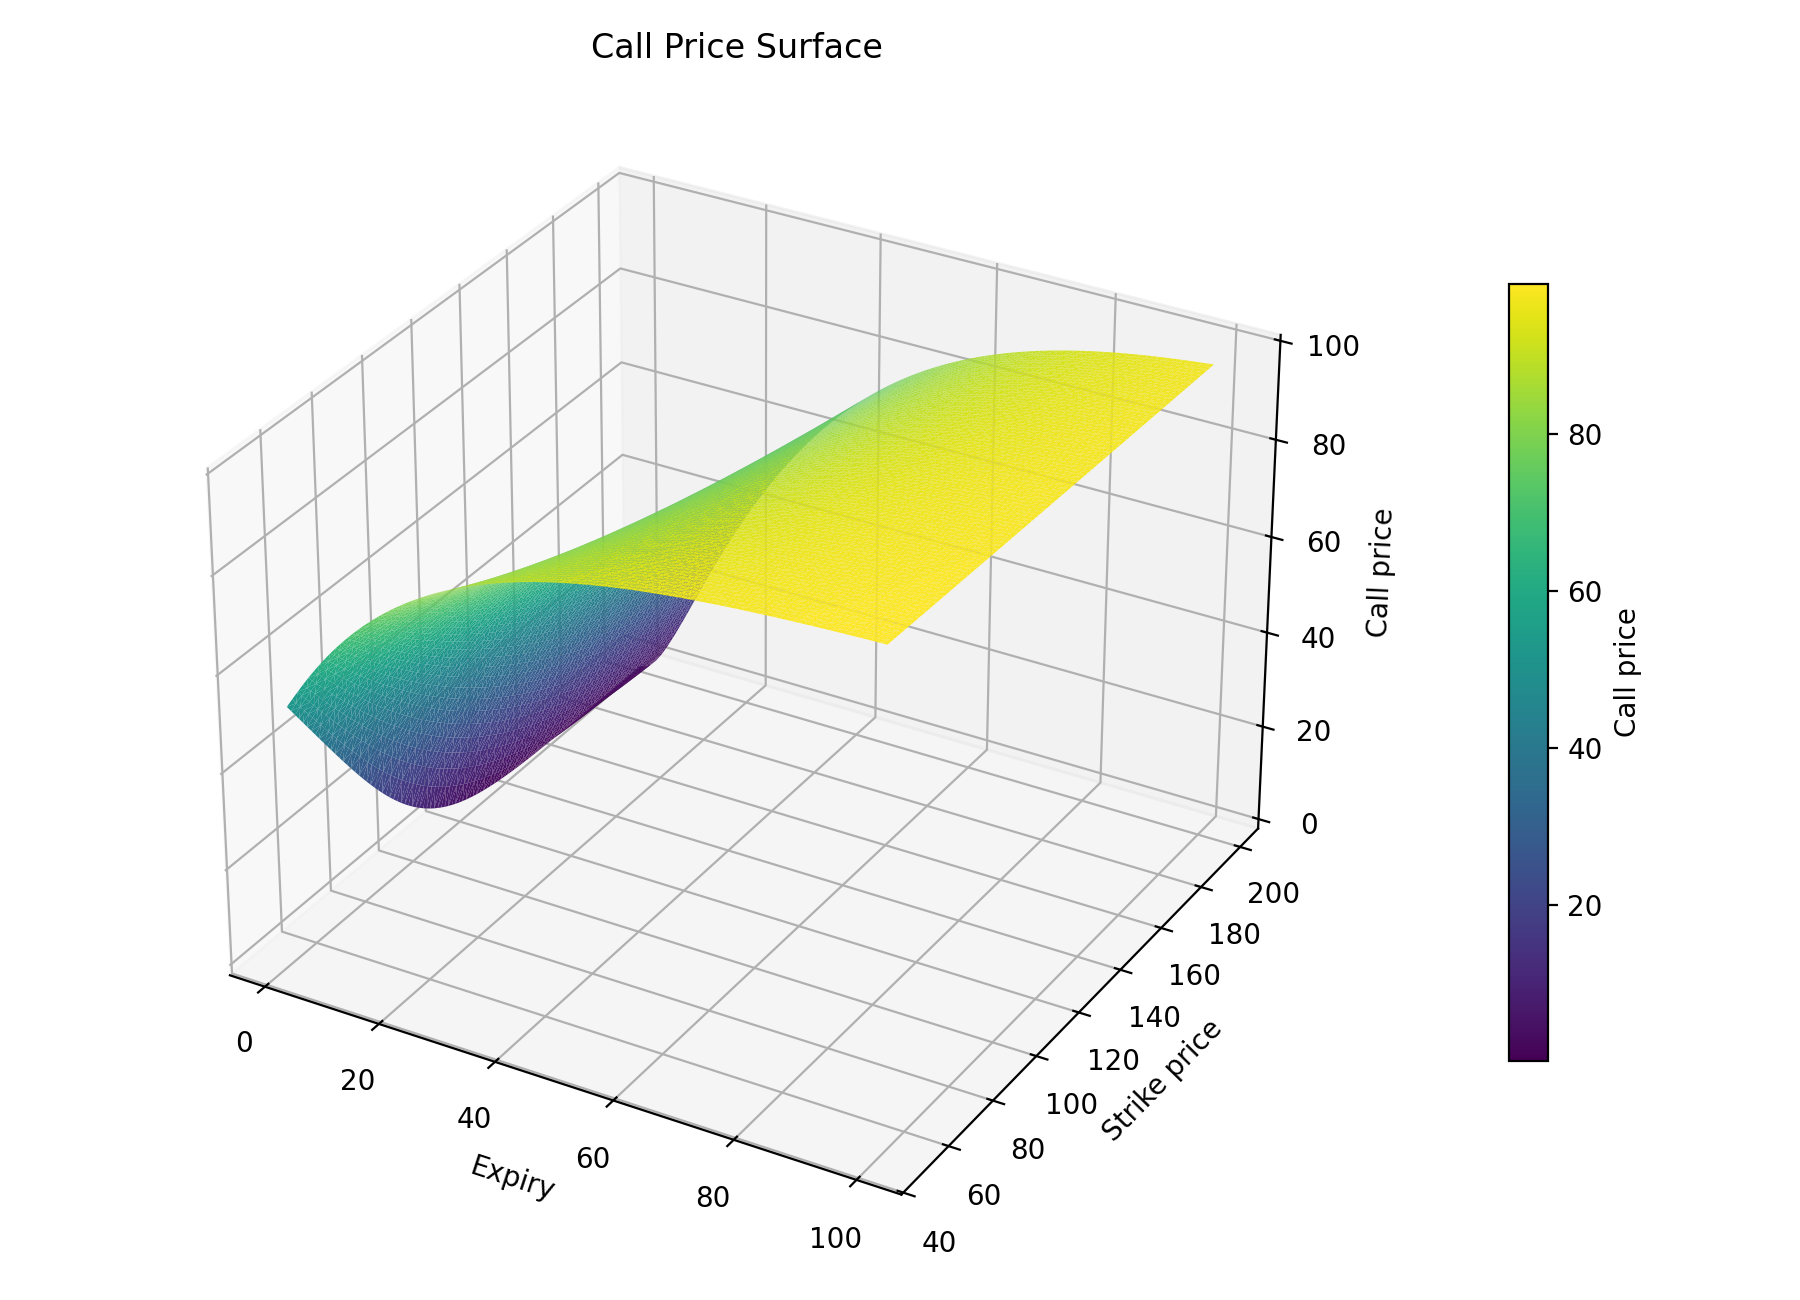
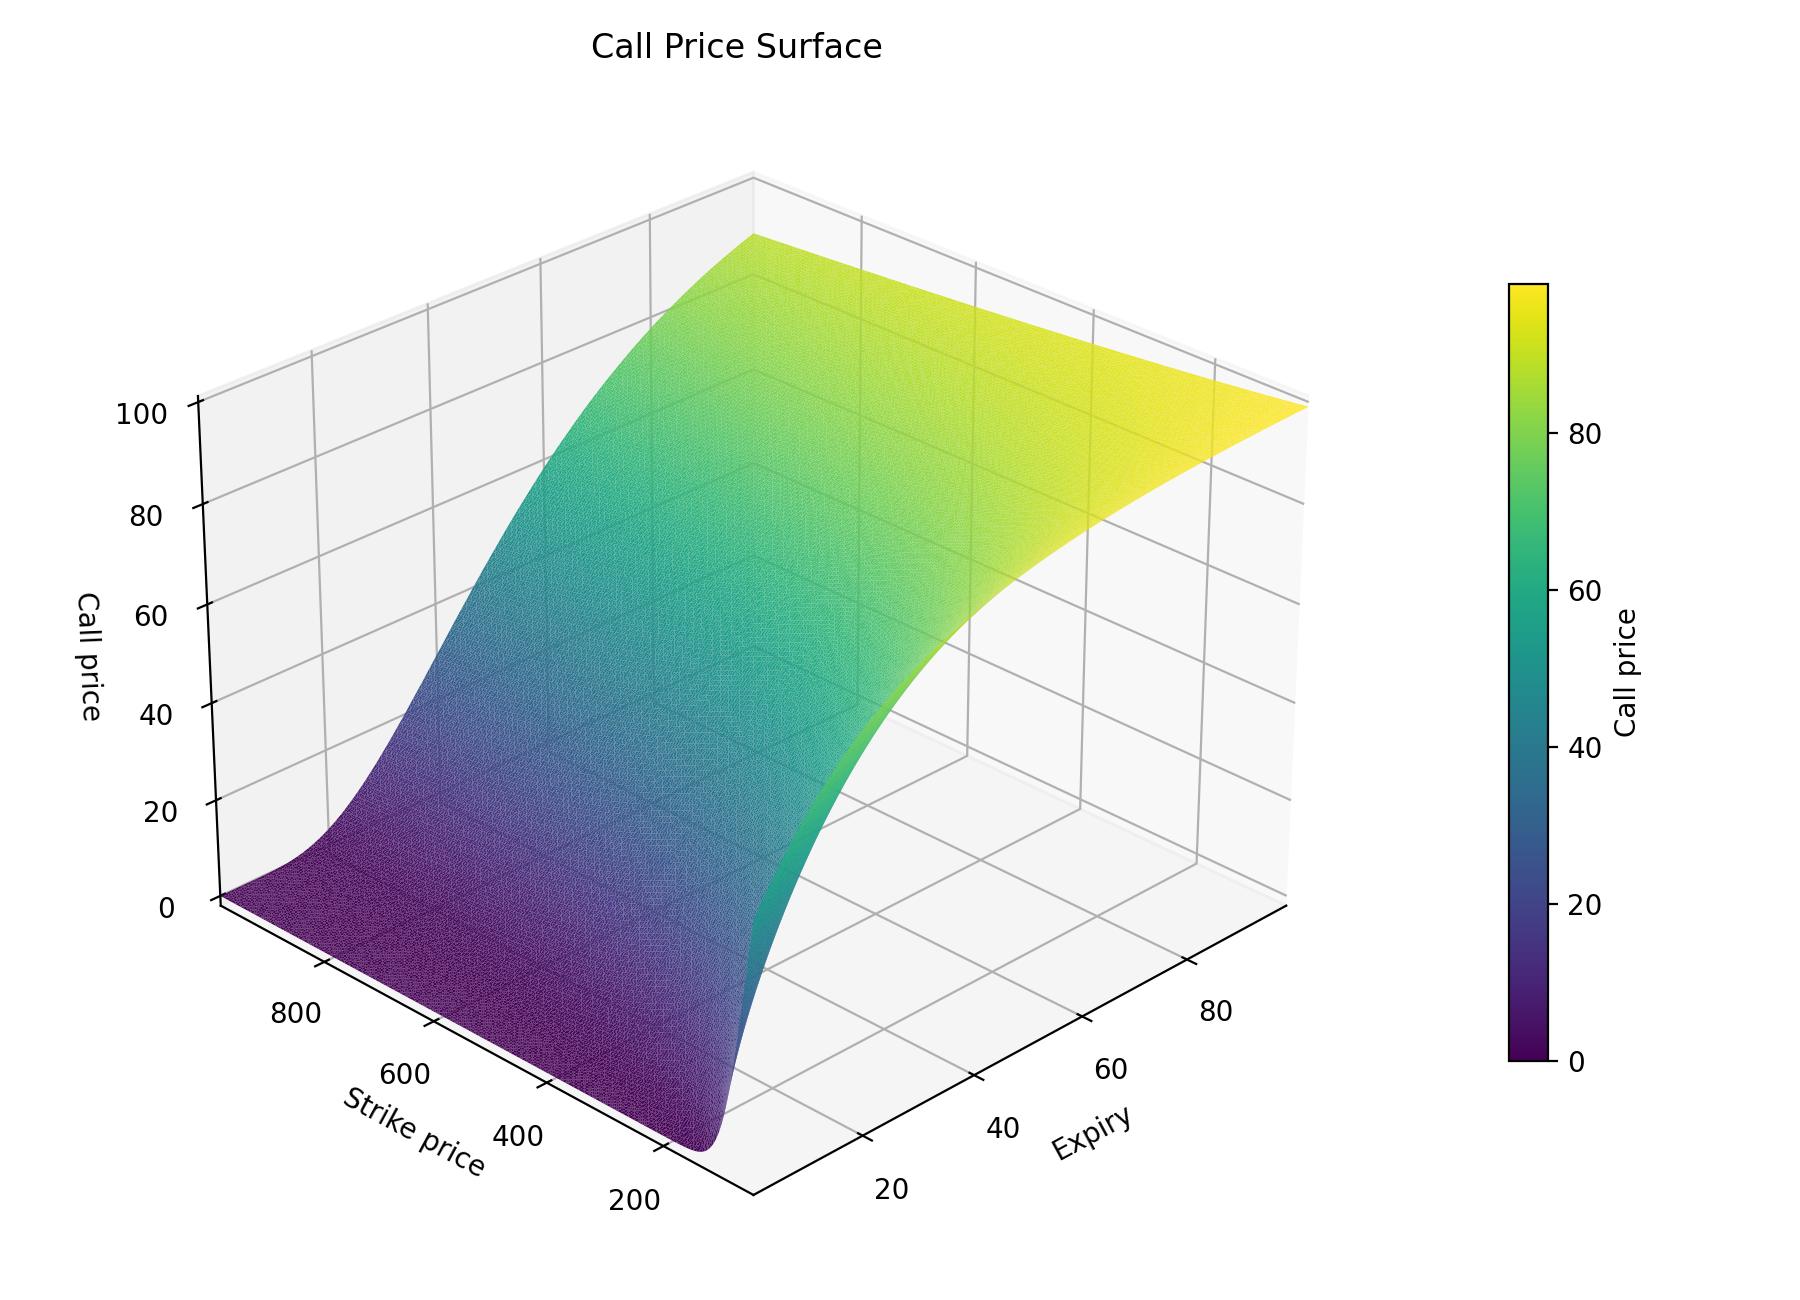
add call surface sanity check

diff --git a/scripts/graph_call_surface.py b/scripts/graph_call_surface.py
@@ -44,6 +44,9 @@ def plot_call_surface() -> None:
     axes.set_xlabel("Expiry")
     axes.set_ylabel("Strike price")
     axes.set_zlabel("Call price")
+    axes.set_xlim(min(expiries), max(expiries))
+    axes.set_ylim(min(strikes), max(strikes))
+    axes.view_init(elev=28, azim=135)
     figure.colorbar(surface, ax=axes, shrink=0.65, pad=0.1, label="Call price")
     figure.tight_layout()
 

diff --git a/README.md b/README.md
@@ -94,6 +94,19 @@ The CPU and GPU runtimes w.r.t. the number of option to price are both $O(n)$. B
 
 ## Sanity Check
 
+Run:
+```
+cmake -S . -B build -DCMAKE_BUILD_TYPE=Release
+cmake --build build -j
+./build/call_surface
+
+python scripts/graph_call_surface.py
+```
+
+![Call Surface](figs/call_surface_graph.png)
+
+For a sanity check, I wanted to see if the surface of the price of a call option chain matched what should be expected. This relationship matches expectations. As the expiration date increases, the price of the option goes up. As the strike price increases, the price goes down.
+
 ## Potential Improvements
 - check runtime and accuracy performance from using double instead of floats
 - include dividend payments in the pricing engine